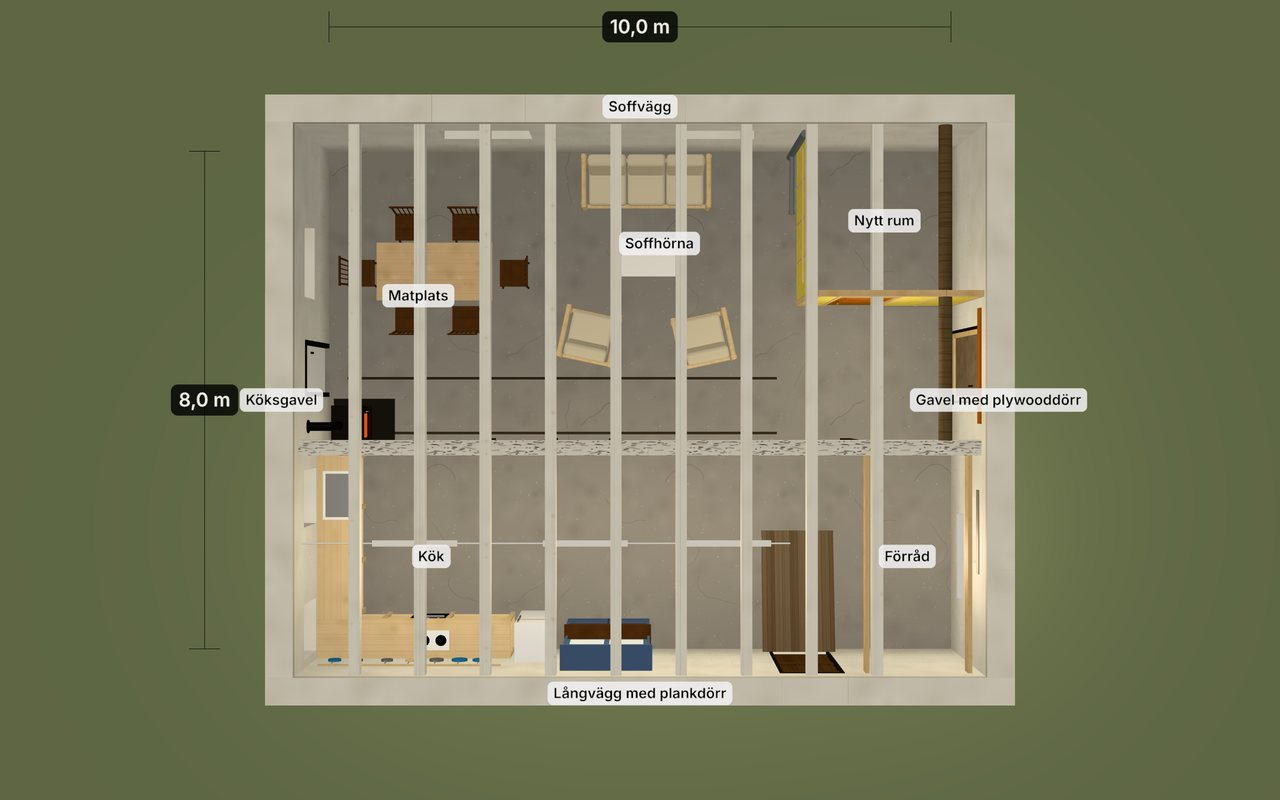
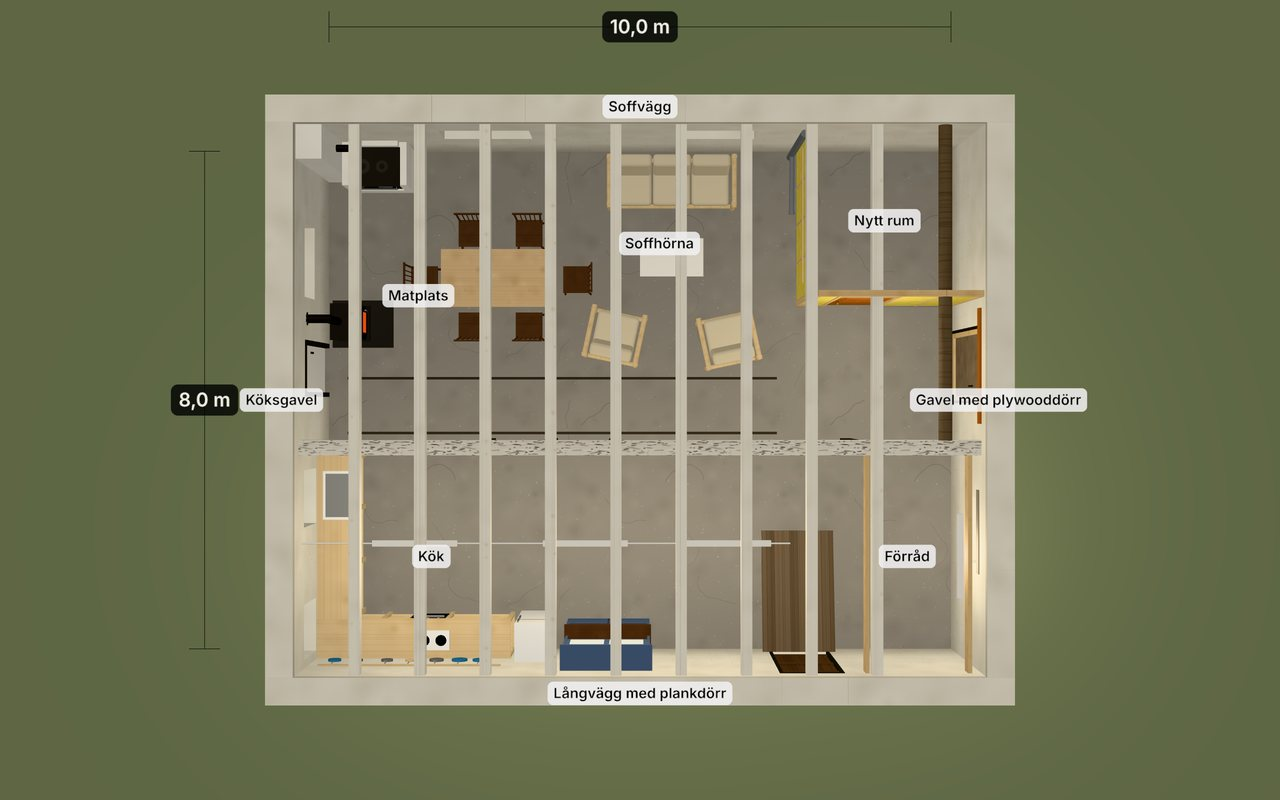
Mura in vedspisen i hörnet och flytta braskaminen
Husqvarna-spisen står i hörnet köksgavel / soffvägg, upplyft till
arbetshöjd och inmurad i vitt murverk med murstock. Braskaminen står nu
mellan fönstret och den vita dörren på köksgaveln. Matgruppen och
soffgruppen är flyttade en bit för att ge kaminen fritt framför sig.

Claude-Session: https://claude.ai/code/session_01Pv6CpKizXL3M9PiPypFNnz

Changed region(s): [[0.2188, 0.1562, 0.5938, 0.4688], [0.25, 0.5, 0.3125, 0.5625], [0.5312, 0.3125, 0.5625, 0.3438]]

diff --git a/stallet/src/furniture.ts b/stallet/src/furniture.ts
@@ -253,11 +253,11 @@ function buildKitchen(m: Materials): THREE.Group {
 function buildStove(m: Materials): THREE.Group {
   const g = new THREE.Group();
   const iron = m.castIron;
-  const w = 0.29;
+  const w = 0.26;
   const d = 0.22;
 
   // Eldstadsplan på golvet.
-  g.add(box(-0.42, 0.42, 0, 0.006, -0.36, 0.62, m.hearth));
+  g.add(box(-0.38, 0.38, 0, 0.006, -0.36, 0.62, m.hearth));
 
   for (const sx of [-1, 1]) {
     for (const sz of [-1, 1]) {
@@ -285,6 +285,66 @@ function buildStove(m: Materials): THREE.Group {
   return g;
 }
 
+/* -------------------------------------------------------------- vedspis */
+
+/**
+ * Inmurad vedspis i hörnet. Byggs i hörnets koordinater: x längs soffväggen ut från
+ * köksgaveln, z ut i rummet. Murstocken står innerst i hörnet och spisen bredvid.
+ */
+function buildCookstove(m: Materials): THREE.Group {
+  const g = new THREE.Group();
+  const c = D.furniture.cookstove;
+  const iron = m.castIron;
+  const white = (x0: number, x1: number, y0: number, y1: number, z0: number, z1: number) =>
+    g.add(box(x0, x1, y0, y1, z0, z1, m.masonry, { scale: 2.4 }));
+
+  // Murstock från golv till tak.
+  white(0, c.chimneyWidth, 0, D.ceiling.boards, 0, c.chimneyDepth);
+
+  // Murverket som spisen sitter i: sockel, två kinder och en kant mot väggen.
+  const a = c.chimneyWidth;
+  const s0 = a + c.cheek;
+  const s1 = s0 + c.width;
+  const b = s1 + c.cheek;
+  const back = 0.08;
+  const front = back + c.depth;
+  const top = c.topHeight;
+  white(a, b, 0, c.plinthHeight, 0, front + 0.03);
+  white(a, s0, c.plinthHeight, top, 0, front + 0.03);
+  white(s1, b, c.plinthHeight, top, 0, front + 0.03);
+  white(s0, s1, c.plinthHeight, top + 0.12, 0, back);
+
+  // Järnspisen: kropp, häll med ringar och blank stång längs framkanten.
+  g.add(box(s0, s1, c.plinthHeight, top - 0.03, back, front, iron));
+  g.add(box(s0 - 0.015, s1 + 0.015, top - 0.03, top, back, front + 0.05, iron));
+  for (const [x, r] of [
+    [s0 + 0.2, 0.115],
+    [s0 + 0.5, 0.095],
+  ]) {
+    g.add(rod(v(x, top, back + 0.3), v(x, top + 0.006, back + 0.3), r, m.hearth));
+    g.add(rod(v(x, top, back + 0.3), v(x, top + 0.009, back + 0.3), r * 0.45, iron));
+  }
+  g.add(rod(v(s0 + 0.02, top - 0.05, front + 0.085), v(s1 - 0.02, top - 0.05, front + 0.085), 0.011, m.steel));
+  for (const x of [s0 + 0.04, s1 - 0.04]) {
+    g.add(rod(v(x, top - 0.05, front + 0.03), v(x, top - 0.05, front + 0.085), 0.008, m.steel));
+  }
+
+  // Framsidan: eldstadslucka och asklucka till vänster, ugnslucka till höger.
+  const face = (x0: number, x1: number, y0: number, y1: number) =>
+    g.add(box(x0, x1, y0, y1, front, front + 0.015, m.hearth));
+  face(s0 + 0.06, s0 + 0.28, top - 0.3, top - 0.1);
+  face(s0 + 0.06, s0 + 0.28, top - 0.47, top - 0.35);
+  face(s0 + 0.36, s1 - 0.06, top - 0.47, top - 0.12);
+  g.add(rod(v(s0 + 0.42, top - 0.17, front + 0.035), v(s1 - 0.12, top - 0.17, front + 0.035), 0.009, m.steel));
+  g.add(rod(v(s0 + 0.17, top - 0.2, front + 0.015), v(s0 + 0.17, top - 0.2, front + 0.04), 0.014, m.steel));
+  g.add(box(s0 + 0.46, s1 - 0.16, top - 0.36, top - 0.31, front + 0.015, front + 0.02, m.steel));
+
+  // Rökröret från hällens bakkant in i murstocken.
+  g.add(rod(v(s0 + 0.12, top, back + 0.09), v(s0 + 0.12, top + 0.42, back + 0.09), 0.055, iron));
+  g.add(rod(v(s0 + 0.175, top + 0.42, back + 0.09), v(a - 0.02, top + 0.42, back + 0.09), 0.055, iron));
+  return g;
+}
+
 /* ------------------------------------------------------------------------ */
 
 export function buildFurniture(m: Materials): THREE.Group {
@@ -297,5 +357,6 @@ export function buildFurniture(m: Materials): THREE.Group {
   for (const chair of f.armchairs) group.add(place(buildSeating(0.9, 1, m), chair));
   group.add(buildKitchen(m));
   group.add(place(buildStove(m), f.stove));
+  group.add(buildCookstove(m));
   return group;
 }

diff --git a/stallet/src/dimensions.ts b/stallet/src/dimensions.ts
@@ -125,15 +125,15 @@ export const storageNook = { fromX: 8.53, fromZ: beam.z + beam.width / 2, timber
  * (0 = framsidan mot +z, 90 = mot +x, 180 = mot -z, -90 = mot -x).
  */
 export const furniture = {
-  /** Matbord med sex stolar framför fönstret på köksgaveln. Bordets långsida går längs x. */
-  dining: { x: 1.8, z: 2.0, tableLength: 1.8, tableWidth: 0.9 },
+  /** Matbord med sex stolar, en bit ut från köksgaveln så att kaminen får fritt framför sig. */
+  dining: { x: 2.8, z: 2.1, tableLength: 1.8, tableWidth: 0.9 },
 
   /** Soffa mot soffväggen, soffbord och två fåtöljer vända mot soffan. */
-  sofa: { x: 5.1, z: 0.55, turn: 0, width: 2.05 },
-  coffeeTable: { x: 5.1, z: 1.75 },
+  sofa: { x: 5.5, z: 0.55, turn: 0, width: 2.05 },
+  coffeeTable: { x: 5.5, z: 1.75 },
   armchairs: [
-    { x: 4.2, z: 3.0, turn: 168 },
-    { x: 6.0, z: 3.05, turn: 192 },
+    { x: 4.6, z: 3.0, turn: 168 },
+    { x: 6.4, z: 3.05, turn: 192 },
   ],
 
   /** Köket: öppen bänk i vinkel i hörnet köksgavel / långvägg, sedan kyl och blått vitrinskåp. */
@@ -152,6 +152,23 @@ export const furniture = {
     hutchX: [3.85, 5.15],
   },
 
-  /** Braskamin i gjutjärn mot köksgaveln, mellan dörren och köksbänken. Röret går ut genom väggen. */
-  stove: { x: 0.44, z: 4.4, turn: 90 },
+  /** Braskamin i gjutjärn mot köksgaveln, mellan fönstret och den vita dörren. Röret går ut genom väggen. */
+  stove: { x: 0.42, z: 2.78, turn: 90 },
+
+  /**
+   * Husqvarna-vedspisen i hörnet köksgavel / soffvägg, upplyft till arbetshöjd och inmurad
+   * i vitputsat murverk med murstock i hörnet. Ryggen står mot soffväggen.
+   */
+  cookstove: {
+    /** Murstockens bredd längs soffväggen och djup ut från den. */
+    chimneyWidth: 0.38,
+    chimneyDepth: 0.5,
+    /** Själva järnspisens bredd, djup och höjd till hällen. */
+    width: 0.76,
+    depth: 0.56,
+    topHeight: 0.86,
+    /** Murad sockel under spisen och murade kinder på sidorna. */
+    plinthHeight: 0.26,
+    cheek: 0.12,
+  },
 };

diff --git a/stallet/src/textures.ts b/stallet/src/textures.ts
@@ -325,6 +325,11 @@ export function createMaterials() {
     }),
     ground: flat(0x7f8a6c, 1),
     // Möbler
+    masonry: standard(canvasTexture(18, (ctx, size, rnd) => {
+      ctx.fillStyle = '#f0ede3';
+      ctx.fillRect(0, 0, size, size);
+      blotches(ctx, size, rnd, 70, ['#fbf9f3', '#dedacd'], 60, 0.25);
+    })),
     pine: standard(canvasTexture(15, rawWood('#dcc296', '#eed9b2', '#b08a58')), 0.8),
     darkWood: standard(canvasTexture(16, rawWood('#4a2e1e', '#6a4630', '#24140b')), 0.6),
     tableTop: standard(canvasTexture(17, rawWood('#d2b48a', '#e6cfa8', '#a37f52')), 0.6),

diff --git a/stallet/README.md b/stallet/README.md
@@ -1,6 +1,6 @@
 # Stallet
 
-En 3D-modell av stallet, 8 × 10 m, tolkad från tio foton: murar, fönster och dörrar, bjälklag, bärlina med stolpar och det nya isolerade rummet i hörnet. Rummet är möblerat med matgrupp, soffgrupp, kök och en braskamin, och möblerna går att slå av.
+En 3D-modell av stallet, 8 × 10 m, tolkad från tio foton: murar, fönster och dörrar, bjälklag, bärlina med stolpar och det nya isolerade rummet i hörnet. Rummet är möblerat med matgrupp, soffgrupp, kök, inmurad vedspis och en braskamin, och möblerna går att slå av.
 
 Projektet är fristående från träningsappen i resten av repot.
 
@@ -60,10 +60,13 @@ Förenklingar:
 
 Lägena står under `furniture` i `src/dimensions.ts` – mittpunkt på golvet och vridning i grader – så det går fort att flytta runt saker.
 
-- **Matgrupp** – bord med sex pinnstolar framför fönstret på köksgaveln.
+- **Matgrupp** – bord med sex pinnstolar, en bit ut från köksgaveln.
 - **Soffgrupp** – tresitssoffa mot soffväggen, soffbord och två fåtöljer.
 - **Kök** – öppen furubänk i vinkel med ugn, kokplatta, mikro och diskho, redskapslist på väggen, kyl/frys och det blå vitrinskåpet.
-- **Braskamin** – gjutjärnskamin mot köksgaveln, mellan den vita dörren och köksbänken, med eldstadsplan och rökrör ut genom väggen. Den är ny och finns inte i fotona. I modellen står den ungefär 15 cm från bänken och dörrkarmen, så avstånden till brännbart material behöver kontrolleras innan den placeras så på riktigt.
+- **Vedspis** – Husqvarna-spisen i hörnet köksgavel / soffvägg, upplyft till arbetshöjd (häll på 0,86 m) och inmurad i vitputsat murverk, med murstock i hörnet upp till taket.
+- **Braskamin** – gjutjärnskamin mot köksgaveln, mellan fönstret och den vita dörren, med eldstadsplan och rökrör ut genom väggen. Väggbiten är bara cirka 0,65 m bred, så kaminen går nästan kant i kant med dörrkarmen och fönsternischen. Avstånden till brännbart material behöver kontrolleras innan den placeras så på riktigt.
+
+Murstocken och rökrörens dragning är antaganden – modellen vet inget om var det finns en rökkanal.
 
 ## Struktur
 
